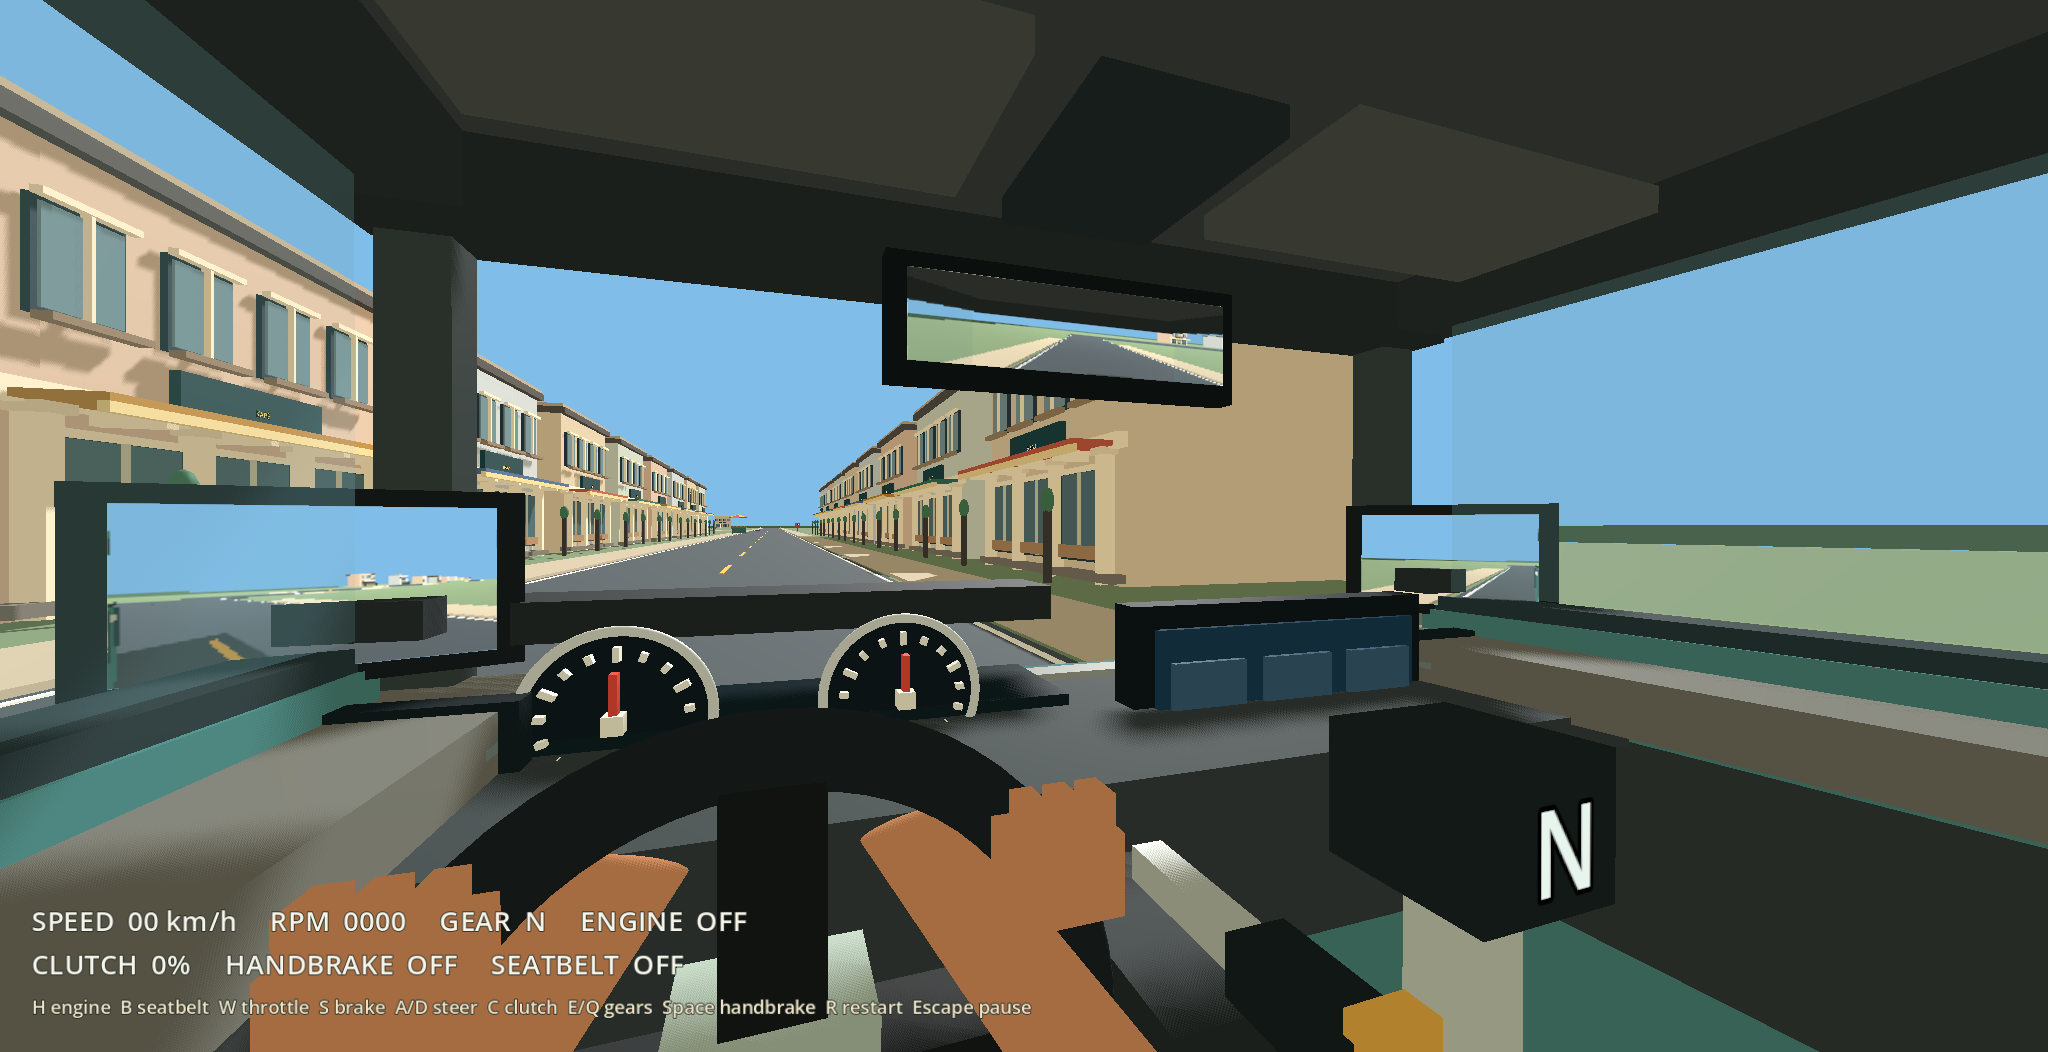
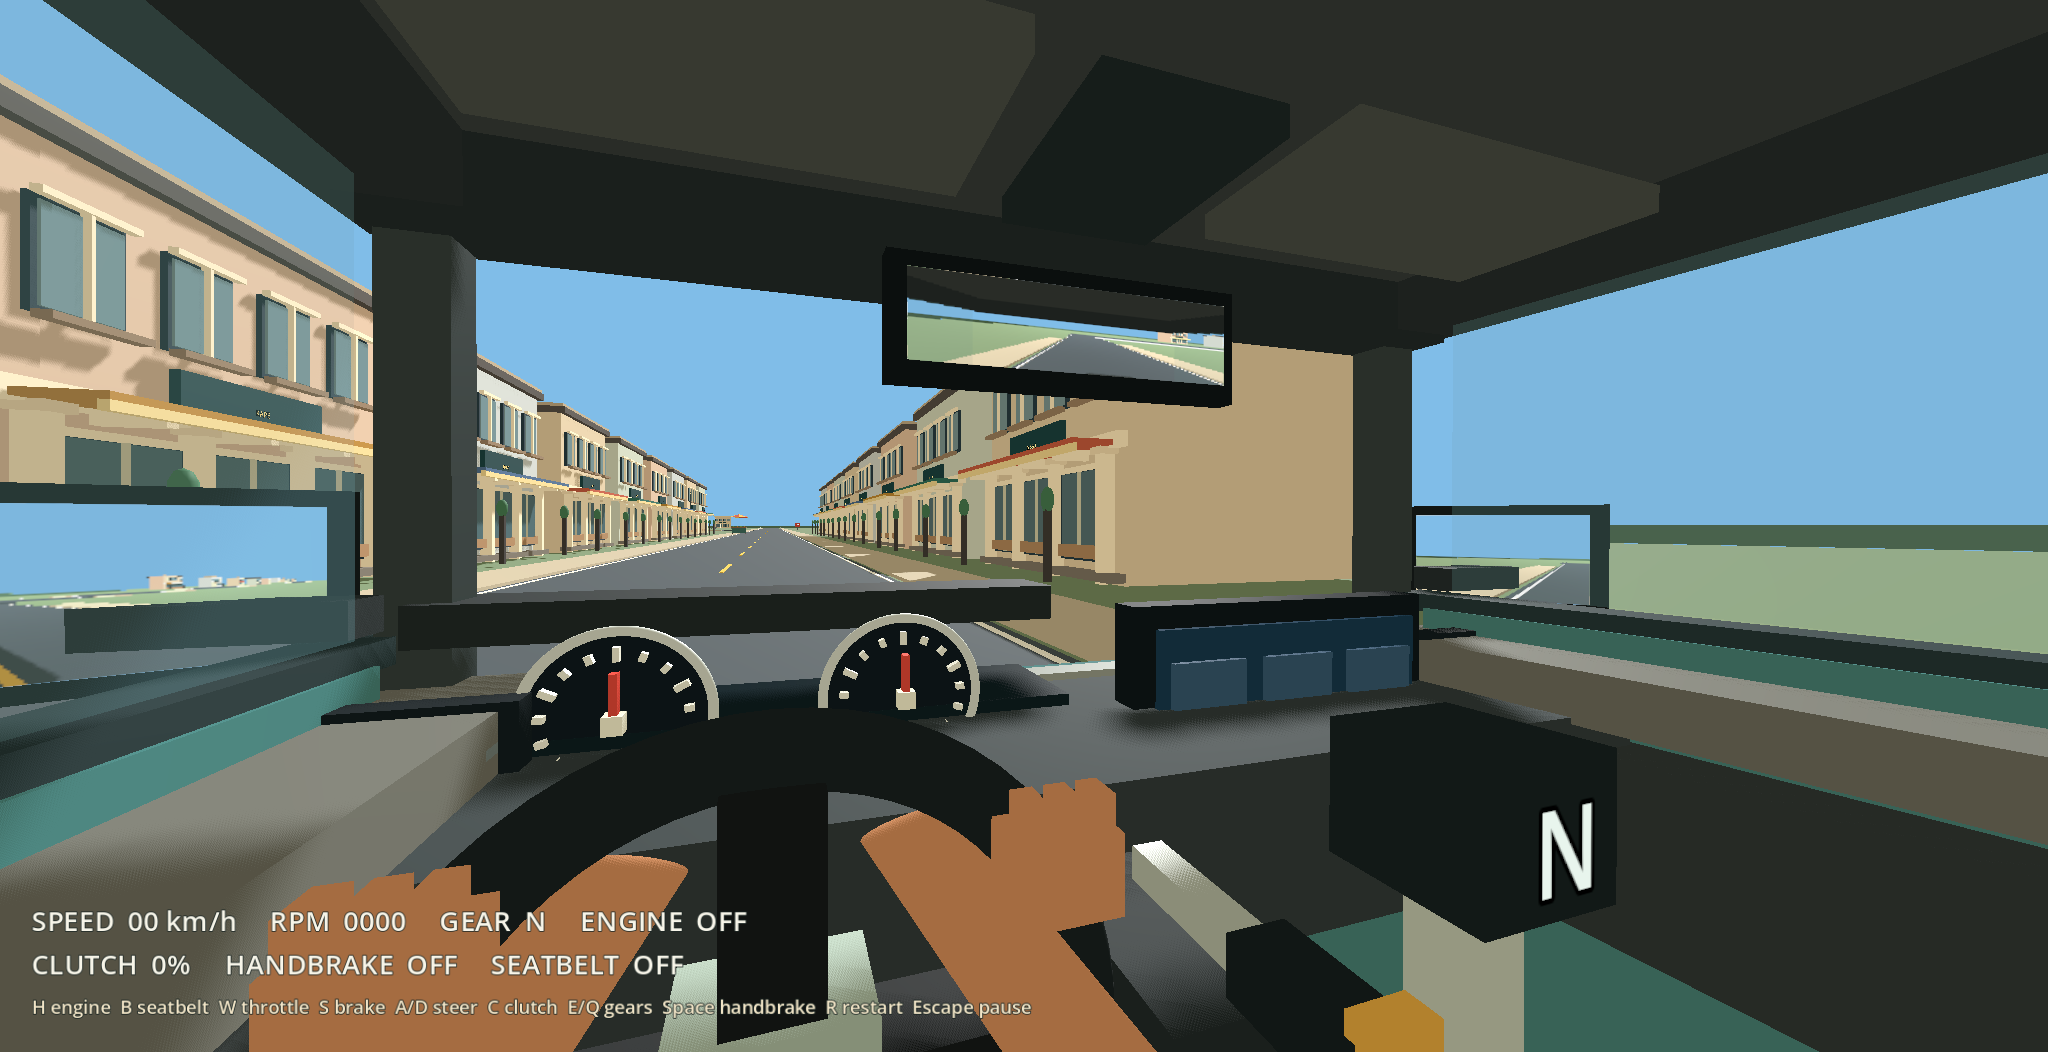
Mount side mirrors outside sedan doors

diff --git a/README.md b/README.md
@@ -14,7 +14,7 @@ Open World now shows [corrective side toasts](docs/screenshots/open_world_incide
 
 The [selected gear is now printed on the gear-shift knob](docs/screenshots/gear_knob_second.png), so its N/R/number moves with the lever. The sedan's suspension mounts sit 0.5 m higher relative to the chassis, lowering its ride height and center of gravity while retaining wheel size. Moderate full-steering turns stay planted; a high-speed full-lock turn can still tip it. This is a simplified game handling tune, not a calibrated vehicle dynamics model.
 
-The sedan now has matching enclosed door shells, handles, window trim, and lightly tinted side panes. The passenger door has its own interior panel, armrest, and handle; see the [passenger-side exterior](docs/screenshots/sedan_passenger_side.png) and [cockpit side view](docs/screenshots/sedan_passenger_cockpit.png). Both side mirrors sit farther back, close to the side windows, with narrower front pillars and glass angled toward the driver. The [forward Open World view](docs/screenshots/sedan_mirrors_forward.png) shows more of each reflection; a [small right glance](docs/screenshots/sedan_passenger_mirror_glance.png) reveals the full passenger mirror. Vehicle physics and collision shapes are unchanged.
+The sedan now has matching enclosed door shells, handles, window trim, and lightly tinted side panes. The passenger door has its own interior panel, armrest, and handle; see the [passenger-side exterior](docs/screenshots/sedan_passenger_side.png) and [cockpit side view](docs/screenshots/sedan_passenger_cockpit.png). Both side mirrors sit outside the door skins, just behind the front pillars, with glass angled toward the driver. The [forward Open World view](docs/screenshots/sedan_mirrors_forward.png) shows a small pillar overlap on the driver mirror; a [small right glance](docs/screenshots/sedan_passenger_mirror_glance.png) reveals the full passenger mirror. Vehicle physics and collision shapes are unchanged.
 
 The engine and road WAVs have complete loop ranges. The engine loop starts with H and stops on ignition off or stall; the road loop continues during a lesson. The audio volume setting mutes and restores both sounds; engine pitch follows RPM and road sound grows with speed.
 
@@ -67,4 +67,4 @@ The next course milestone is Secondary Controls. First finish an exported-app sa
 - `tests/open_world_flow.gd` passed the optional destination/review flow plus collision-toast deduplication and stopping versus rolling through the authored stop line. `tests/open_world_collision.gd` passed actual Jolt contact checks: the sedan hit a pedestrian and a traffic vehicle, yielding one incident each and a visible pedestrian fall. The Primary Controls flow still passes after the shared cockpit adjustment. Native Metal renders were inspected for road visibility, the stop approach, and upright/fallen pedestrian poses. These checks do not replace a manually driven macOS playthrough.
 - `tests/input_bindings.gd` verifies the Xbox action preset, keyboard remap UI, duplicate rejection, local save/reload, reset, and that controller mappings survive keyboard changes. The settings screen was checked in a native Metal render. The Xbox controller itself was not available for a physical playthrough.
 - Hand-over-hand steering poses were inspected at center, mid-turn, and full lock in both directions using the native Metal renderer. The Primary Controls flow and transmission checks still pass; the procedural hands remain stylized, and a manually driven exported-app feel check remains open.
-- The completed passenger side, matching driver-side trim, transparent side panes, and rearward mirrors were inspected from the exterior and at the user's Open World screenshot aspect ratio in native Metal renders. The far passenger mirror still sits near the edge of the straight-ahead view, but a small right glance shows its full surface without pillar overlap. A manually driven mirror-use check in the exported app remains open.
+- The completed passenger side, matching driver-side trim, transparent side panes, and externally mounted rearward mirrors were inspected at the user's Open World screenshot aspect ratio in native Metal renders. The driver mirror has a small pillar overlap; the far passenger mirror still sits near the edge of the straight-ahead view, but a small right glance shows its full surface. A manually driven mirror-use check in the exported app remains open.

diff --git a/docs/ARCHITECTURE.md b/docs/ARCHITECTURE.md
@@ -95,7 +95,7 @@ Input and transmission are small scripts owned by the vehicle, with focused chec
 
 Create folders as files are added. Current audio lives in `assets/audio/`, course-card concept illustrations in `assets/ui/course_art/`, and all first-course 3D geometry is generated by scripts. The reusable shopfront, stall, palm, streetlamp, jeepney, and tricycle scenes in `scenes/props/` are visual only; traffic cones are physical obstacles. Keep external license files with future sourced assets and maintain `assets/ASSET_REGISTER.md`. Store editable custom sources separately from optimized Godot imports when needed.
 
-The cockpit must support the driver's actual eye position, clear windshield sight lines, instrument visibility, moving controls, and useful mirrors. The current camera follows the driver seat each rendered frame while filtering body roll and pitch. The procedural hands stay on the rim for small corrections, then one hand releases, passes above the other, and regrips the opposite upper rim as the wheel turns farther; the right hand also has timed shift, handbrake, and seatbelt reaches. Both sides have door shells, side panes, and interior trim. The mirror housings are mounted behind narrower front pillars and face the left-seat eye; the passenger mirror is fully visible with a small right glance. The handbrake lever sits beside the steering wheel, below the gauges. The raised wheel mounts keep the chassis and center of gravity lower, while wheel roll influence permits rollover only under a severe full-lock turn in the flat-road test. The circular loop is traversable layout in the enclosed Primary Controls lot, with no rule evaluation yet. External car models are not automatically suitable player vehicles. Profile this view on the Mac before buying or building a large environment.
+The cockpit must support the driver's actual eye position, clear windshield sight lines, instrument visibility, moving controls, and useful mirrors. The current camera follows the driver seat each rendered frame while filtering body roll and pitch. The procedural hands stay on the rim for small corrections, then one hand releases, passes above the other, and regrips the opposite upper rim as the wheel turns farther; the right hand also has timed shift, handbrake, and seatbelt reaches. Both sides have door shells, side panes, and interior trim. The mirror housings are outside the door skins, just behind the narrower front pillars, and face the left-seat eye; a small driver-side pillar overlap remains, while the passenger mirror is fully visible with a small right glance. The handbrake lever sits beside the steering wheel, below the gauges. The raised wheel mounts keep the chassis and center of gravity lower, while wheel roll influence permits rollover only under a severe full-lock turn in the flat-road test. The circular loop is traversable layout in the enclosed Primary Controls lot, with no rule evaluation yet. External car models are not automatically suitable player vehicles. Profile this view on the Mac before buying or building a large environment.
 
 ## First playable milestone status
 

diff --git a/assets/ASSET_REGISTER.md b/assets/ASSET_REGISTER.md
@@ -4,7 +4,7 @@ The playable Primary Controls course uses project-created geometry and audio. Th
 
 | Asset | Creator and source | License / use | Notes |
 |---|---|---|---|
-| Sedan exterior and cockpit | Maniubra prototype, `scripts/sedan.gd` | Original project work | Procedural Godot meshes/materials, including full roof shell, headliner, windshield header, matching side-door shells and trim, transparent side panes, rearward driver-facing mirrors with narrow front pillars, wheel, lower compact dashboard gauges, a gear label attached to the shift knob, seats, hood, hand-over-hand steering motion, shift/handbrake/seatbelt reaches, and a moving handbrake lever beside the steering wheel. The [user-provided driving-school clip](https://www.youtube.com/shorts/1omn7NdF0nc) was a motion reference; no video frames or assets were incorporated. |
+| Sedan exterior and cockpit | Maniubra prototype, `scripts/sedan.gd` | Original project work | Procedural Godot meshes/materials, including full roof shell, headliner, windshield header, matching side-door shells and trim, transparent side panes, externally mounted rearward driver-facing mirrors with narrow front pillars, wheel, lower compact dashboard gauges, a gear label attached to the shift knob, seats, hood, hand-over-hand steering motion, shift/handbrake/seatbelt reaches, and a moving handbrake lever beside the steering wheel. The [user-provided driving-school clip](https://www.youtube.com/shorts/1omn7NdF0nc) was a motion reference; no video frames or assets were incorporated. |
 | Iloilo district blockout | Maniubra prototype, `scripts/world/iloilo_district.gd` | Original project work | Procedural roads, bridge crossings, sidewalks, plaza/church silhouette, venue bay, signage and riverside geometry. Existing original shopfront, palm and stall scenes are reused. Landmarks are stylized blockouts pending a reference-based art pass. |
 | Open World road users | Maniubra prototype, `scripts/world/traffic_vehicle.gd` and `scripts/world/pedestrian.gd` | Original project work | Scripted moving car and articulated pedestrian geometry, including a simple fall reaction on impact; reuse of the existing original jeepney and tricycle prop meshes inside moving traffic actors. |
 | Streetscape kit | Maniubra prototype, `scripts/props/city_prop.gd` and `scenes/props/` | Original project work | Reusable Godot 3D scenes for sari-sari/shopfront façades, streetlamps, produce stalls with umbrellas, palms, a jeepney, and a tricycle. The original jeepney and tricycle visuals are reused by moving Open World actors. |

diff --git a/docs/AGENT_IMPLEMENTATION.md b/docs/AGENT_IMPLEMENTATION.md
@@ -12,7 +12,7 @@ The selected gear label is now a child of the shift lever's knob, displaying N, 
 
 The steering wheel now turns farther visually, and the procedural hands perform a hand-over-hand reach and regrip during stronger turns in either direction. Small corrections retain a two-hand grip. Native Metal captures checked neutral, crossover, and full-lock poses; gear, handbrake, and seatbelt reaches still have priority. The animation remains a stylized approximation and needs a manual exported-app feel check.
 
-The sedan passenger side now has matching front/rear door shells, handles, transparent window panes, and interior trim. Side mirrors have angled housings facing the left-seat driver and raised reflection cameras. They are now mounted rearward of slimmer front pillars, closer to the side windows. Native Metal captures at the user's Open World screenshot aspect ratio checked the straight-ahead view and a small right glance; the far mirror is fully visible with that glance but remains near the forward view's edge. Perform a manually driven mirror check in the exported app before treating mirror usefulness as fully accepted.
+The sedan passenger side now has matching front/rear door shells, handles, transparent window panes, and interior trim. Side mirrors have angled housings facing the left-seat driver and raised reflection cameras. They are mounted outside the door skins, just behind slimmer front pillars. Native Metal captures at the user's Open World screenshot aspect ratio checked the straight-ahead view and a small right glance; the driver mirror has a small pillar overlap, and the far mirror is fully visible with that glance but remains near the forward view's edge. Perform a manually driven mirror check in the exported app before treating mirror usefulness as fully accepted.
 
 The Xbox preset now maps every implemented driving control, first-person look, pause, and menu select/back. Settings shows connected controller status and a scrollable keyboard remapping screen. Saved physical-key bindings load before sessions, preserve controller action events, and update prompts and HUD hints. A focused automated check covers mapping, remap, duplicate rejection, persistence, and reset. No controller was detected on this Mac during development, so connection, trigger ranges, and comfort need a physical Xbox playthrough before claiming hardware compatibility.
 
